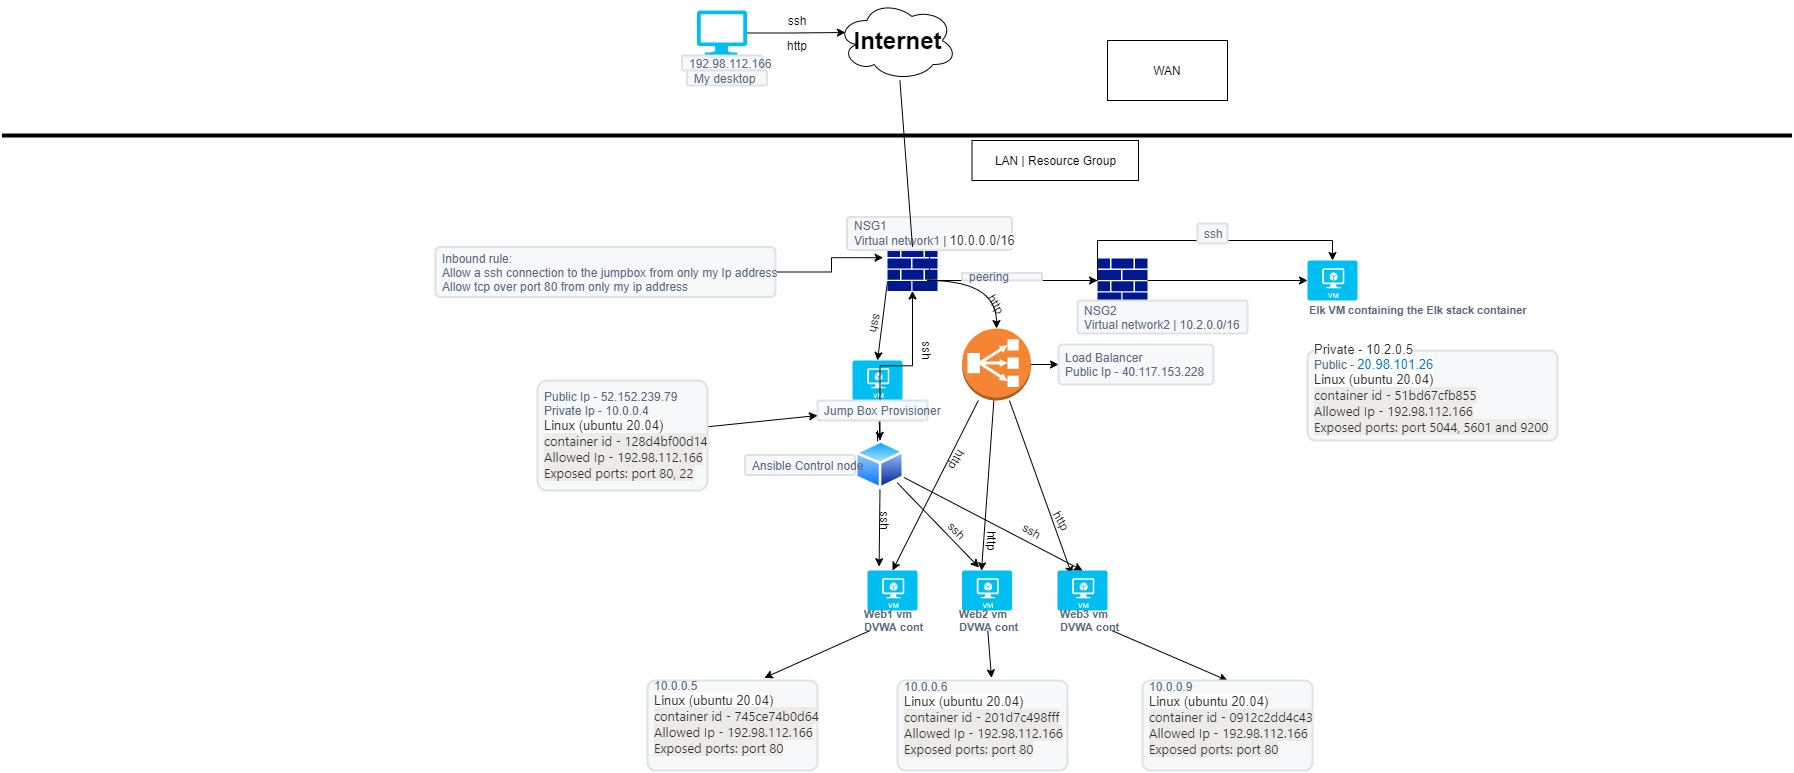
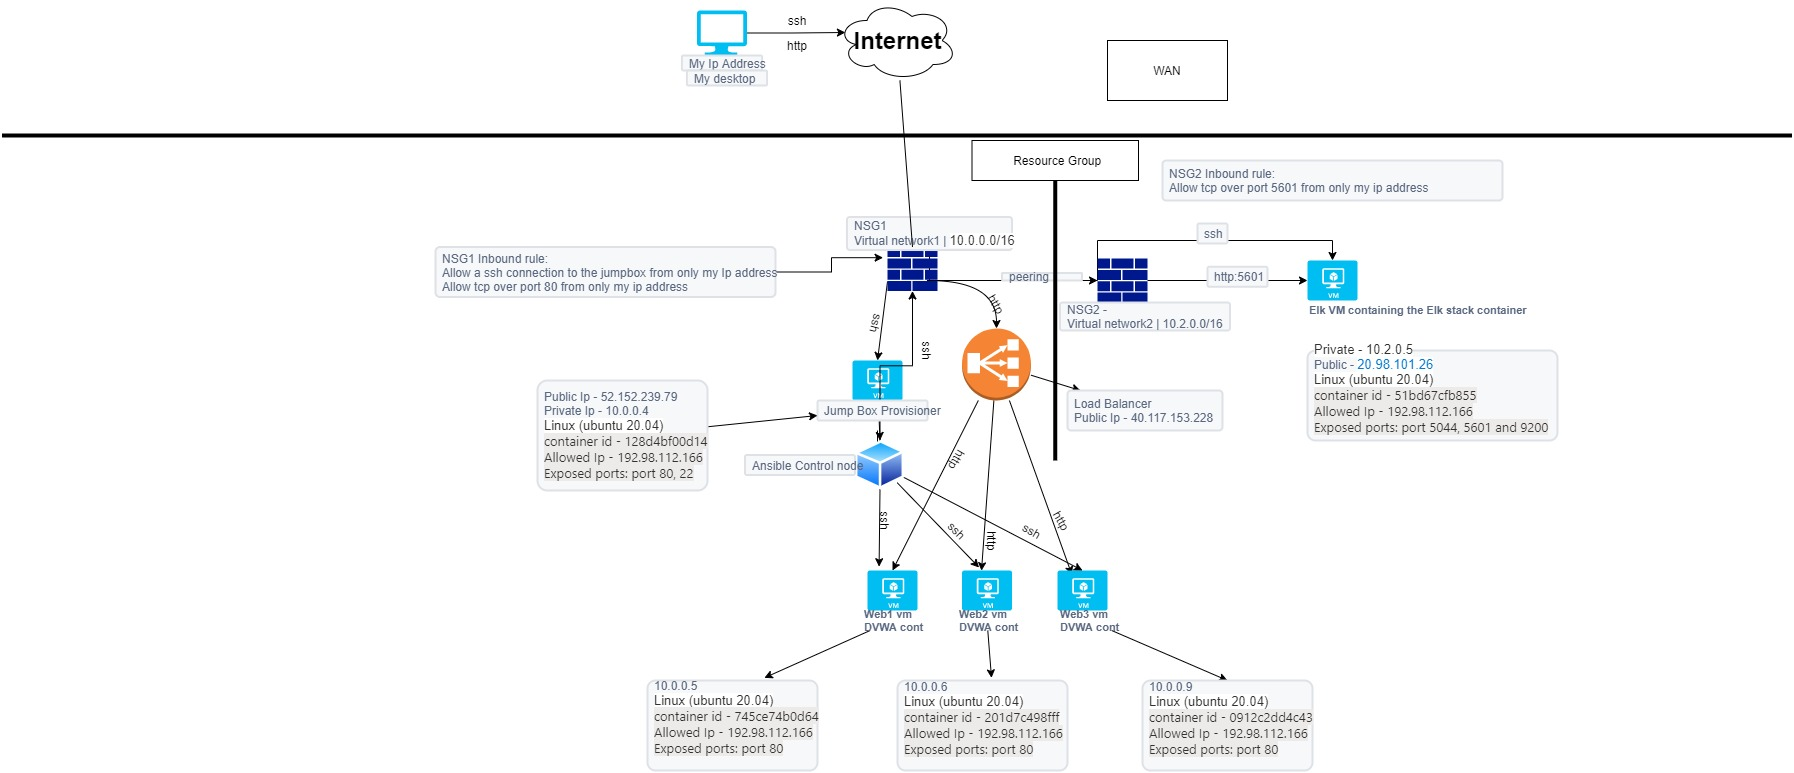
adding folder

diff --git a/README.md b/README.md
@@ -84,7 +84,7 @@ The machines on the internal network are not exposed to the public Internet.
 
 Only the Jumpbox machine can accept connections from the Internet. Access to this machine is only allowed from the following IP addresses:
 - _TODO: Add whitelisted IP addresses_
-198.98.112.166
+My Ip address
 
 Machines within the network can only be accessed by The Jumpbox/ Ansible container, and only the whitelisted public address listed above can access this Jumpbox.
 - _TODO: Which machine did you allow to access your ELK VM? What was its IP address?_
@@ -94,8 +94,8 @@ A summary of the access policies in place can be found in the table below.
 
 | Name    | Publicly Accessible | Allowed IP Addresses |
 |---------|---------------------|----------------------|
-| Jumpbox | Yes                 | 198.98.112.166       |
-| Elk-vm  | No                  |                      |
+| Jumpbox | Yes                 | My Ip Address        |
+| Elk-vm  | Yes                 | My Ip Address        |
 | Web1-vm | No                  |                      |
 | Web2-vm | No                  |                      |
 | Web3-vm | No                  |                      |
